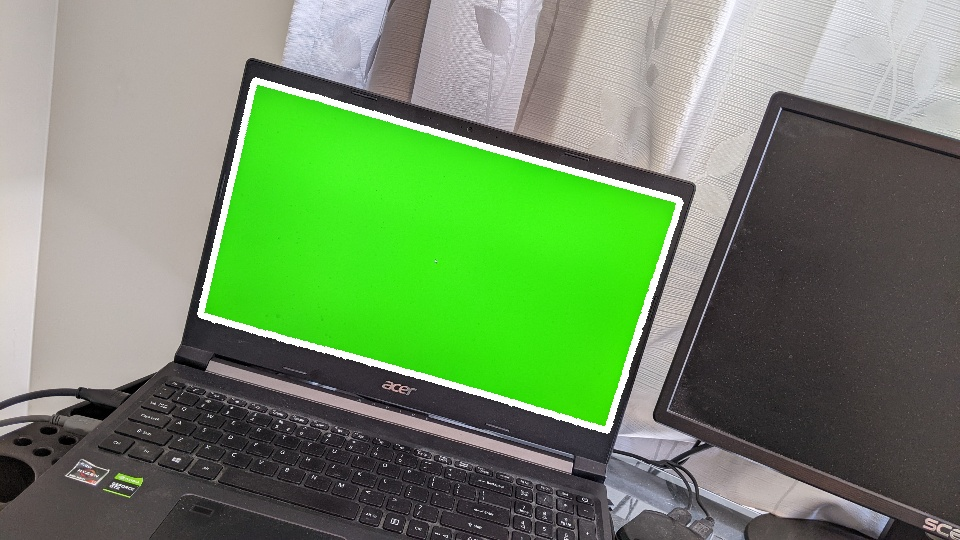
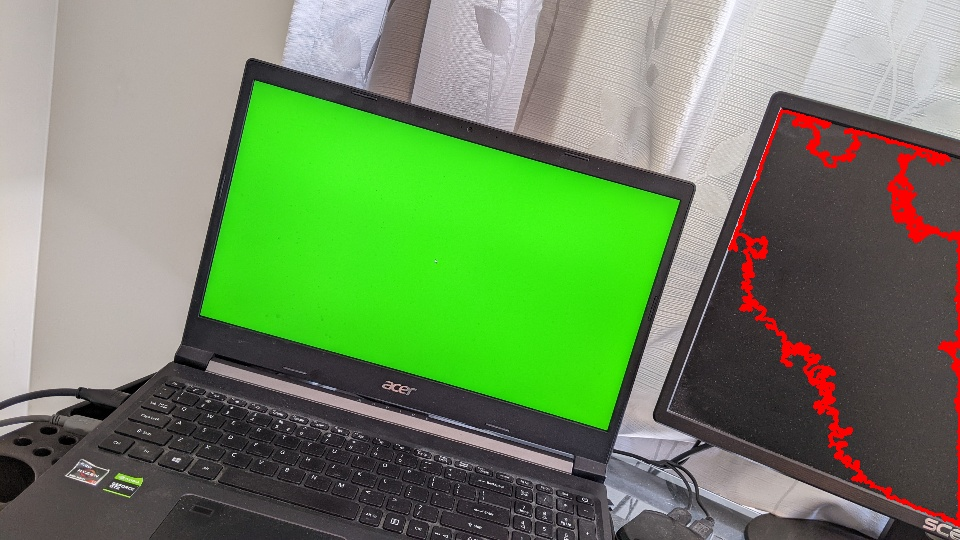
added comments and the bounding box feature

diff --git a/extractor.py b/extractor.py
@@ -1,32 +1,60 @@
 import cv2
 import numpy as np
 
+#Reading, resizing and changing the image format to HSV
 img = cv2.imread('1.jpg')
 img = cv2.resize(img, (960,540))
 hsv_image = cv2.cvtColor(img, cv2.COLOR_BGR2HSV)
 
+#Setting the threshold values for green color
 lower_threshold = np.array([40, 50, 50])
 upper_threshold = np.array([80, 255, 255])
 
+#Calculating the mask/Region of interest
 mask = cv2.inRange(hsv_image, lower_threshold, upper_threshold)
 # cv2.imshow('mask', mask)
 
+#Finding the contours in the mask and identifying the largest contour
 contours, _ = cv2.findContours(mask, cv2.RETR_TREE, cv2.CHAIN_APPROX_SIMPLE)
 largest_contour = max(contours, key=cv2.contourArea)
+
+#Creating a new mask with only the largest contour
 largest_contour_mask = np.zeros_like(mask)
-# cv2.imshow('mask_largest', largest_contour_mask)
-cv2.drawContours(largest_contour_mask, [largest_contour], 0, 255, -1)
+largest_contour_mask = cv2.drawContours(largest_contour_mask, [largest_contour], 0, 255, -1)
+
+#Calculating the maximum and minimum coordinates of the largest contour for drawing bounding box
+xmin, ymin, xmax, ymax = float('inf'), float('inf'), 0, 0
+for coords in largest_contour:
+    x, y = coords[0]
+    if x < xmin:
+        xmin = x
+    if y < ymin:
+        ymin = y
+    if x > xmax:
+        xmax = x
+    if y > ymax:
+        ymax = y
+
+#Drawing the bounding box
+b_box = img.copy()
+b_box = cv2.rectangle(b_box, (xmin, ymin), (xmax, ymax), (0,0,255), 2)
+
+#Drawing the outline of the laptop screen
+outline = cv2.drawContours(img, [largest_contour], 0, (0,0,255), 2)
+
+#Extracting the green screen portion using the new mask
 result = cv2.bitwise_and(img, img, mask=largest_contour_mask)
-outline = cv2.drawContours(img, [largest_contour], 0, (255,255,255),5)
+
+#Displaying the results
+cv2.imshow('bbox', b_box)
 cv2.imshow('Outline',outline)
-# Display the image in the window
 cv2.imshow('Output Window', result)
-# Display the resulting image
-# cv2.imshow('Green Object', green_img)
+
+#Generating output files
 cv2.imwrite('Output_contour.jpg', outline)
 cv2.imwrite('Output_result.jpg', result)
-# Wait for a key press
+cv2.imwrite('Bounding_box.jpg',b_box)
+
 cv2.waitKey(0)
 
-# Close all windows
 cv2.destroyAllWindows()
